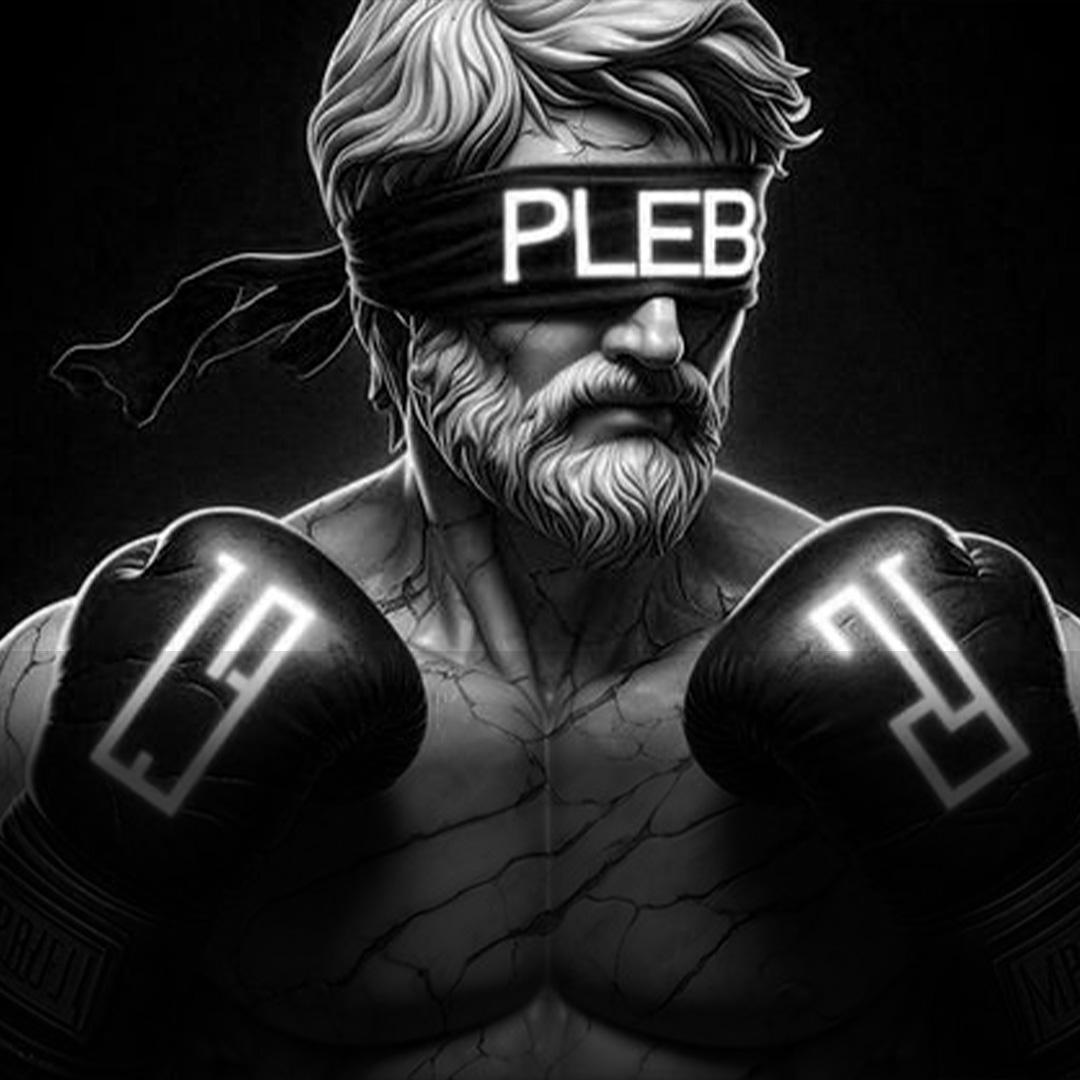
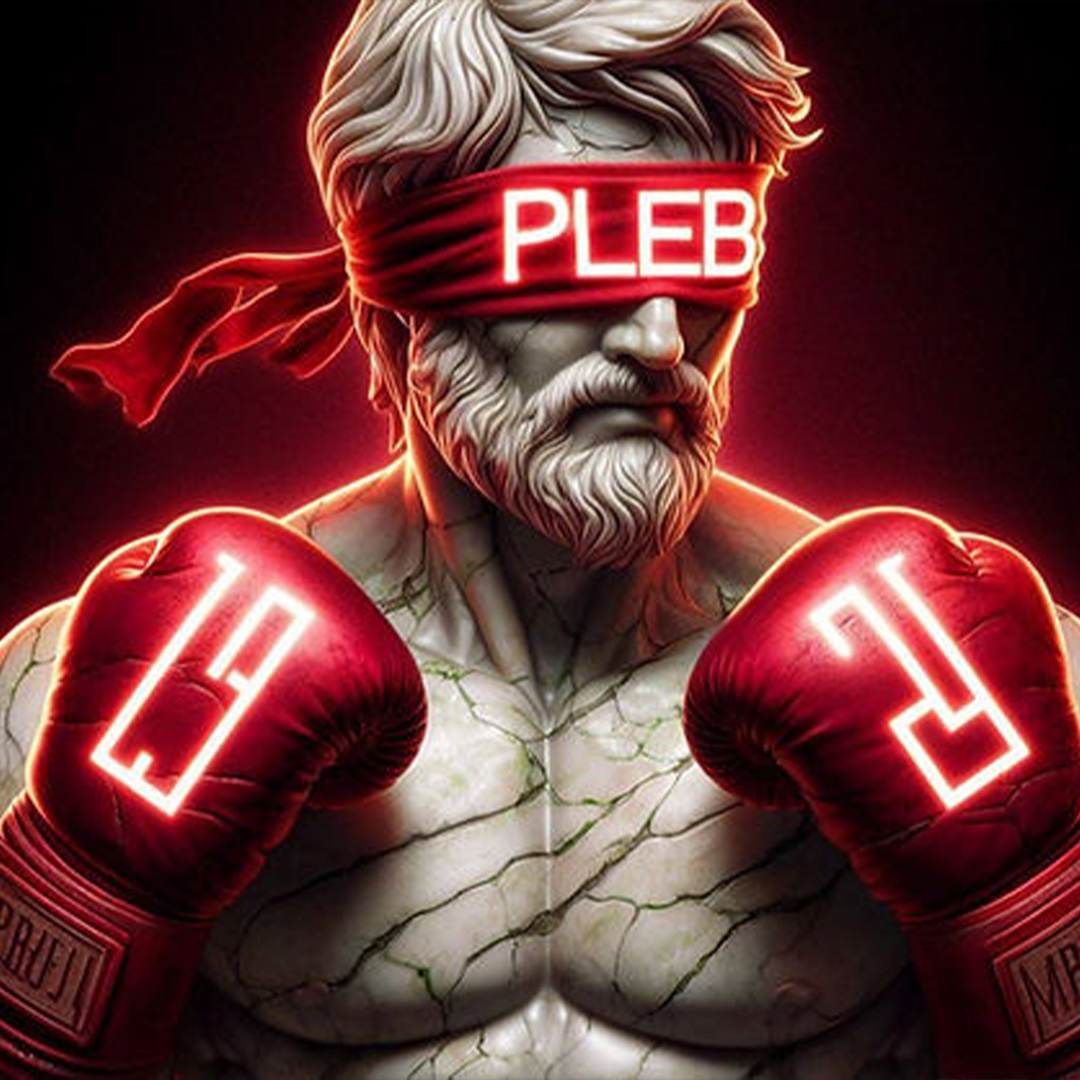
main

diff --git a/index.html b/index.html
@@ -274,9 +274,9 @@
                     <div class="col-md-12">
                     <div class="owl-carousel owl-theme">
                         <div class="item">
-                            <div class="wrap img-grayscale">
+                            <div class="wrap ">
                                 <div class="overlay"></div> <!-- Add overlay here -->
-                                <div class="img img-grayscale"> <img src="images/blog/1.jpg" class="img-fluid"> </div>
+                                <div class="img "> <img src="images/blog/1.jpg" class="img-fluid"> </div>
                                 <div class="overlay"></div> <!-- Add overlay here -->
                                 <div class="title">
                                     <h4 ><a style="color: #fece00;" href="https://plebz.life/">PLEBZ</a></h4>
@@ -287,9 +287,9 @@
                             </div>
                         </div>
                         <div class="item">
-                            <div class="wrap img-grayscale">
+                            <div class="wrap ">
                                 <div class="overlay"></div> <!-- Add overlay here -->
-                                <div class="img img-grayscale"> <img src="images/blog/2.jpg" class="img-fluid"> </div>
+                                <div class="img "> <img src="images/blog/2.jpg" class="img-fluid"> </div>
                                 <div class="overlay"></div>
                                 <div class="title">
                                     <h4><a style="color: #fece00;" href="https://t.me/moonwalkersama"> MoonWalkers</a></h4>
@@ -300,9 +300,9 @@
                             </div>
                         </div>
                         <div class="item">
-                            <div class="wrap img-grayscale">
+                            <div class="wrap ">
                                 <div class="overlay"></div> <!-- Add overlay here -->
-                                <div class="img img-grayscale"> <img src="images/blog/3.jpg" class="img-fluid"> </div>
+                                <div class="img "> <img src="images/blog/3.jpg" class="img-fluid"> </div>
                                 <div class="overlay"></div>
                                 <div class="title">
                                     <h4><a style="color: #fece00;" href="https://justthetipvip.com/">TIPS</a></h4>
@@ -313,9 +313,9 @@
                             </div>
                         </div>
                         <div class="item">
-                            <div class="wrap img-grayscale">
+                            <div class="wrap ">
                                 <div class="overlay"></div> <!-- Add overlay here -->
-                                <div class="img img-grayscale"> <img src="images/blog/4.jpg" class="img-fluid"> </div>
+                                <div class="img "> <img src="images/blog/4.jpg" class="img-fluid"> </div>
                                 <div class="overlay"></div>
                                 <div class="title">
                                     <h4><a style="color: #fece00;" href="https://thebigredcrypto.com/">Big Red</a></h4>
@@ -326,9 +326,9 @@
                             </div>
                         </div>
                         <div class="item">
-                            <div class="wrap img-grayscale">
+                            <div class="wrap ">
                                 <div class="overlay"></div> <!-- Add overlay here -->
-                                <div class="img img-grayscale"> <img src="images/blog/5.jpg" class="img-fluid"> </div>
+                                <div class="img "> <img src="images/blog/5.jpg" class="img-fluid"> </div>
                                 <div class="overlay"></div>
                                 <div class="title">
                                     <h4><a style="color: #fece00;" href="https://culo.expert/">CULO</a></h4>
@@ -339,9 +339,9 @@
                             </div>
                         </div>
                         <div class="item">
-                            <div class="wrap img-grayscale">
+                            <div class="wrap ">
                                 <div class="overlay"></div> <!-- Add overlay here -->
-                                <div class="img img-grayscale"> <img src="images/blog/6.jpg" class="img-fluid"> </div>
+                                <div class="img "> <img src="images/blog/6.jpg" class="img-fluid"> </div>
                                 <div class="overlay"></div>
                                 <div class="title">
                                     <h4><a style="color: #fece00;" href="emgroups.io">EMG</a></h4>
@@ -352,9 +352,9 @@
                             </div>
                         </div>
                         <div class="item">
-                            <div class="wrap img-grayscale">
+                            <div class="wrap ">
                                 <div class="overlay"></div> <!-- Add overlay here -->
-                                <div class="img img-grayscale"> <img src="images/blog/b1.jpg" class="img-fluid"> </div>
+                                <div class="img "> <img src="images/blog/b1.jpg" class="img-fluid"> </div>
                                 <div class="overlay"></div>  
                                 <div class="title">
                                     <h4><a style="color: #fece00;"href="t.me/VoteForPedroSol">VFP</a></h4>
@@ -402,7 +402,7 @@
                         <div class="item"> <span class="quote"><i class="fa-solid fa-ditto"></i></span>
                             <p>Dan entesque magna magna semper daibus elisan the aliuen risus morbi tristique senectus et netus malesuan fames ac urpis miss muris in the sero dictum aselusion lacustion suscipit congue the volutpat.</p>
                             <div class="info">
-                                <div class="author-img img-grayscale"> <img src="images/team/02.jpg" alt=""> </div>
+                                <div class="author-img "> <img src="images/team/02.jpg" alt=""> </div>
                                 <div class="cont">
                                     <h6>Emily Brown</h6> <span>HLL Company</span>
                                 </div>
@@ -411,7 +411,7 @@
                         <div class="item"> <span class="quote"><i class="fa-solid fa-ditto"></i></span>
                             <p>Dan entesque magna magna semper daibus elisan the aliuen risus morbi tristique senectus et netus malesuan fames ac urpis miss muris in the sero dictum aselusion lacustion suscipit congue the volutpat.</p>
                             <div class="info">
-                                <div class="author-img img-grayscale"> <img src="images/team/01.jpg" alt=""> </div>
+                                <div class="author-img "> <img src="images/team/01.jpg" alt=""> </div>
                                 <div class="cont">
                                     <h6>Martin Brown</h6> <span>Consulting</span>
                                 </div>
@@ -420,7 +420,7 @@
                         <div class="item"> <span class="quote"><i class="fa-solid fa-ditto"></i></span>
                             <p>Dan entesque magna magna semper daibus elisan the aliuen risus morbi tristique senectus et netus malesuan fames ac urpis miss muris in the sero dictum aselusion lacustion suscipit congue the volutpat.</p>
                             <div class="info">
-                                <div class="author-img img-grayscale"> <img src="images/team/03.jpg" alt=""> </div>
+                                <div class="author-img "> <img src="images/team/03.jpg" alt=""> </div>
                                 <div class="cont">
                                     <h6>Enrico White</h6> <span>Lawyer Company</span>
                                 </div>
@@ -429,7 +429,7 @@
                         <div class="item"> <span class="quote"><i class="fa-solid fa-ditto"></i></span>
                             <p>Dan entesque magna magna semper daibus elisan the aliuen risus morbi tristique senectus et netus malesuan fames ac urpis miss muris in the sero dictum aselusion lacustion suscipit congue the volutpat.</p>
                             <div class="info">
-                                <div class="author-img img-grayscale"> <img src="images/team/04.jpg" alt=""> </div>
+                                <div class="author-img "> <img src="images/team/04.jpg" alt=""> </div>
                                 <div class="cont">
                                     <h6>Jesica Brown</h6> <span>Makeup Artist</span>
                                 </div>
@@ -438,7 +438,7 @@
                         <div class="item"> <span class="quote"><i class="fa-solid fa-ditto"></i></span>
                             <p>Dan entesque magna magna semper daibus elisan the aliuen risus morbi tristique senectus et netus malesuan fames ac urpis miss muris in the sero dictum aselusion lacustion suscipit congue the volutpat.</p>
                             <div class="info">
-                                <div class="author-img img-grayscale"> <img src="images/team/05.jpg" alt=""> </div>
+                                <div class="author-img "> <img src="images/team/05.jpg" alt=""> </div>
                                 <div class="cont">
                                     <h6>Rana Brown</h6> <span>Construction Co.</span>
                                 </div>
@@ -447,7 +447,7 @@
                         <div class="item"> <span class="quote"><i class="fa-solid fa-ditto"></i></span>
                             <p>Dan entesque magna magna semper daibus elisan the aliuen risus morbi tristique senectus et netus malesuan fames ac urpis miss muris in the sero dictum aselusion lacustion suscipit congue the volutpat.</p>
                             <div class="info">
-                                <div class="author-img img-grayscale"> <img src="images/team/06.jpg" alt=""> </div>
+                                <div class="author-img "> <img src="images/team/06.jpg" alt=""> </div>
                                 <div class="cont">
                                     <h6>Olivia Martin</h6> <span>Model Artist</span>
                                 </div>
